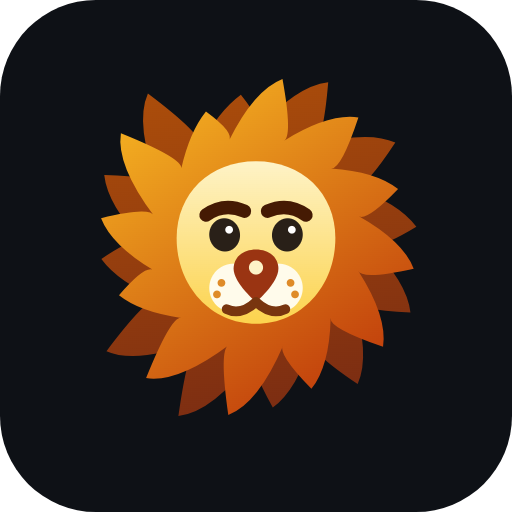
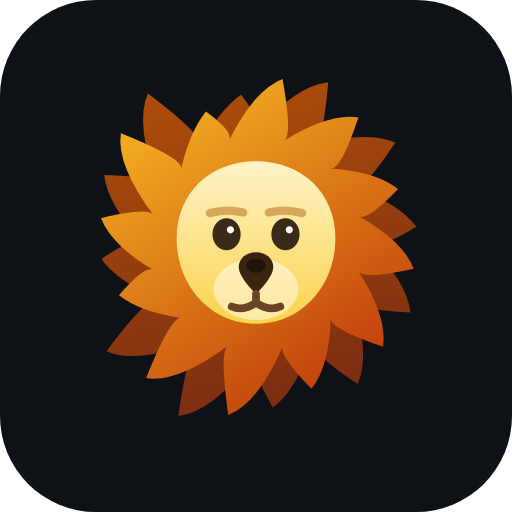
Refine lion face: dark natural nose, remove comic brows + clown cheeks, calmer expression

Changed region(s): [[0.375, 0.375, 0.625, 0.625]]

diff --git a/public/sw.js b/public/sw.js
@@ -1,7 +1,7 @@
 // LeadLion service worker — caches the app shell for instant loads / offline.
 // Network-first for HTML/API so data stays fresh; cache-first for static assets.
 
-const CACHE = 'leadlion-v2';
+const CACHE = 'leadlion-v3';
 const SHELL = ['/app', '/app.html', '/app.js', '/styles.css', '/logo.svg', '/manifest.webmanifest'];
 
 self.addEventListener('install', (e) => {